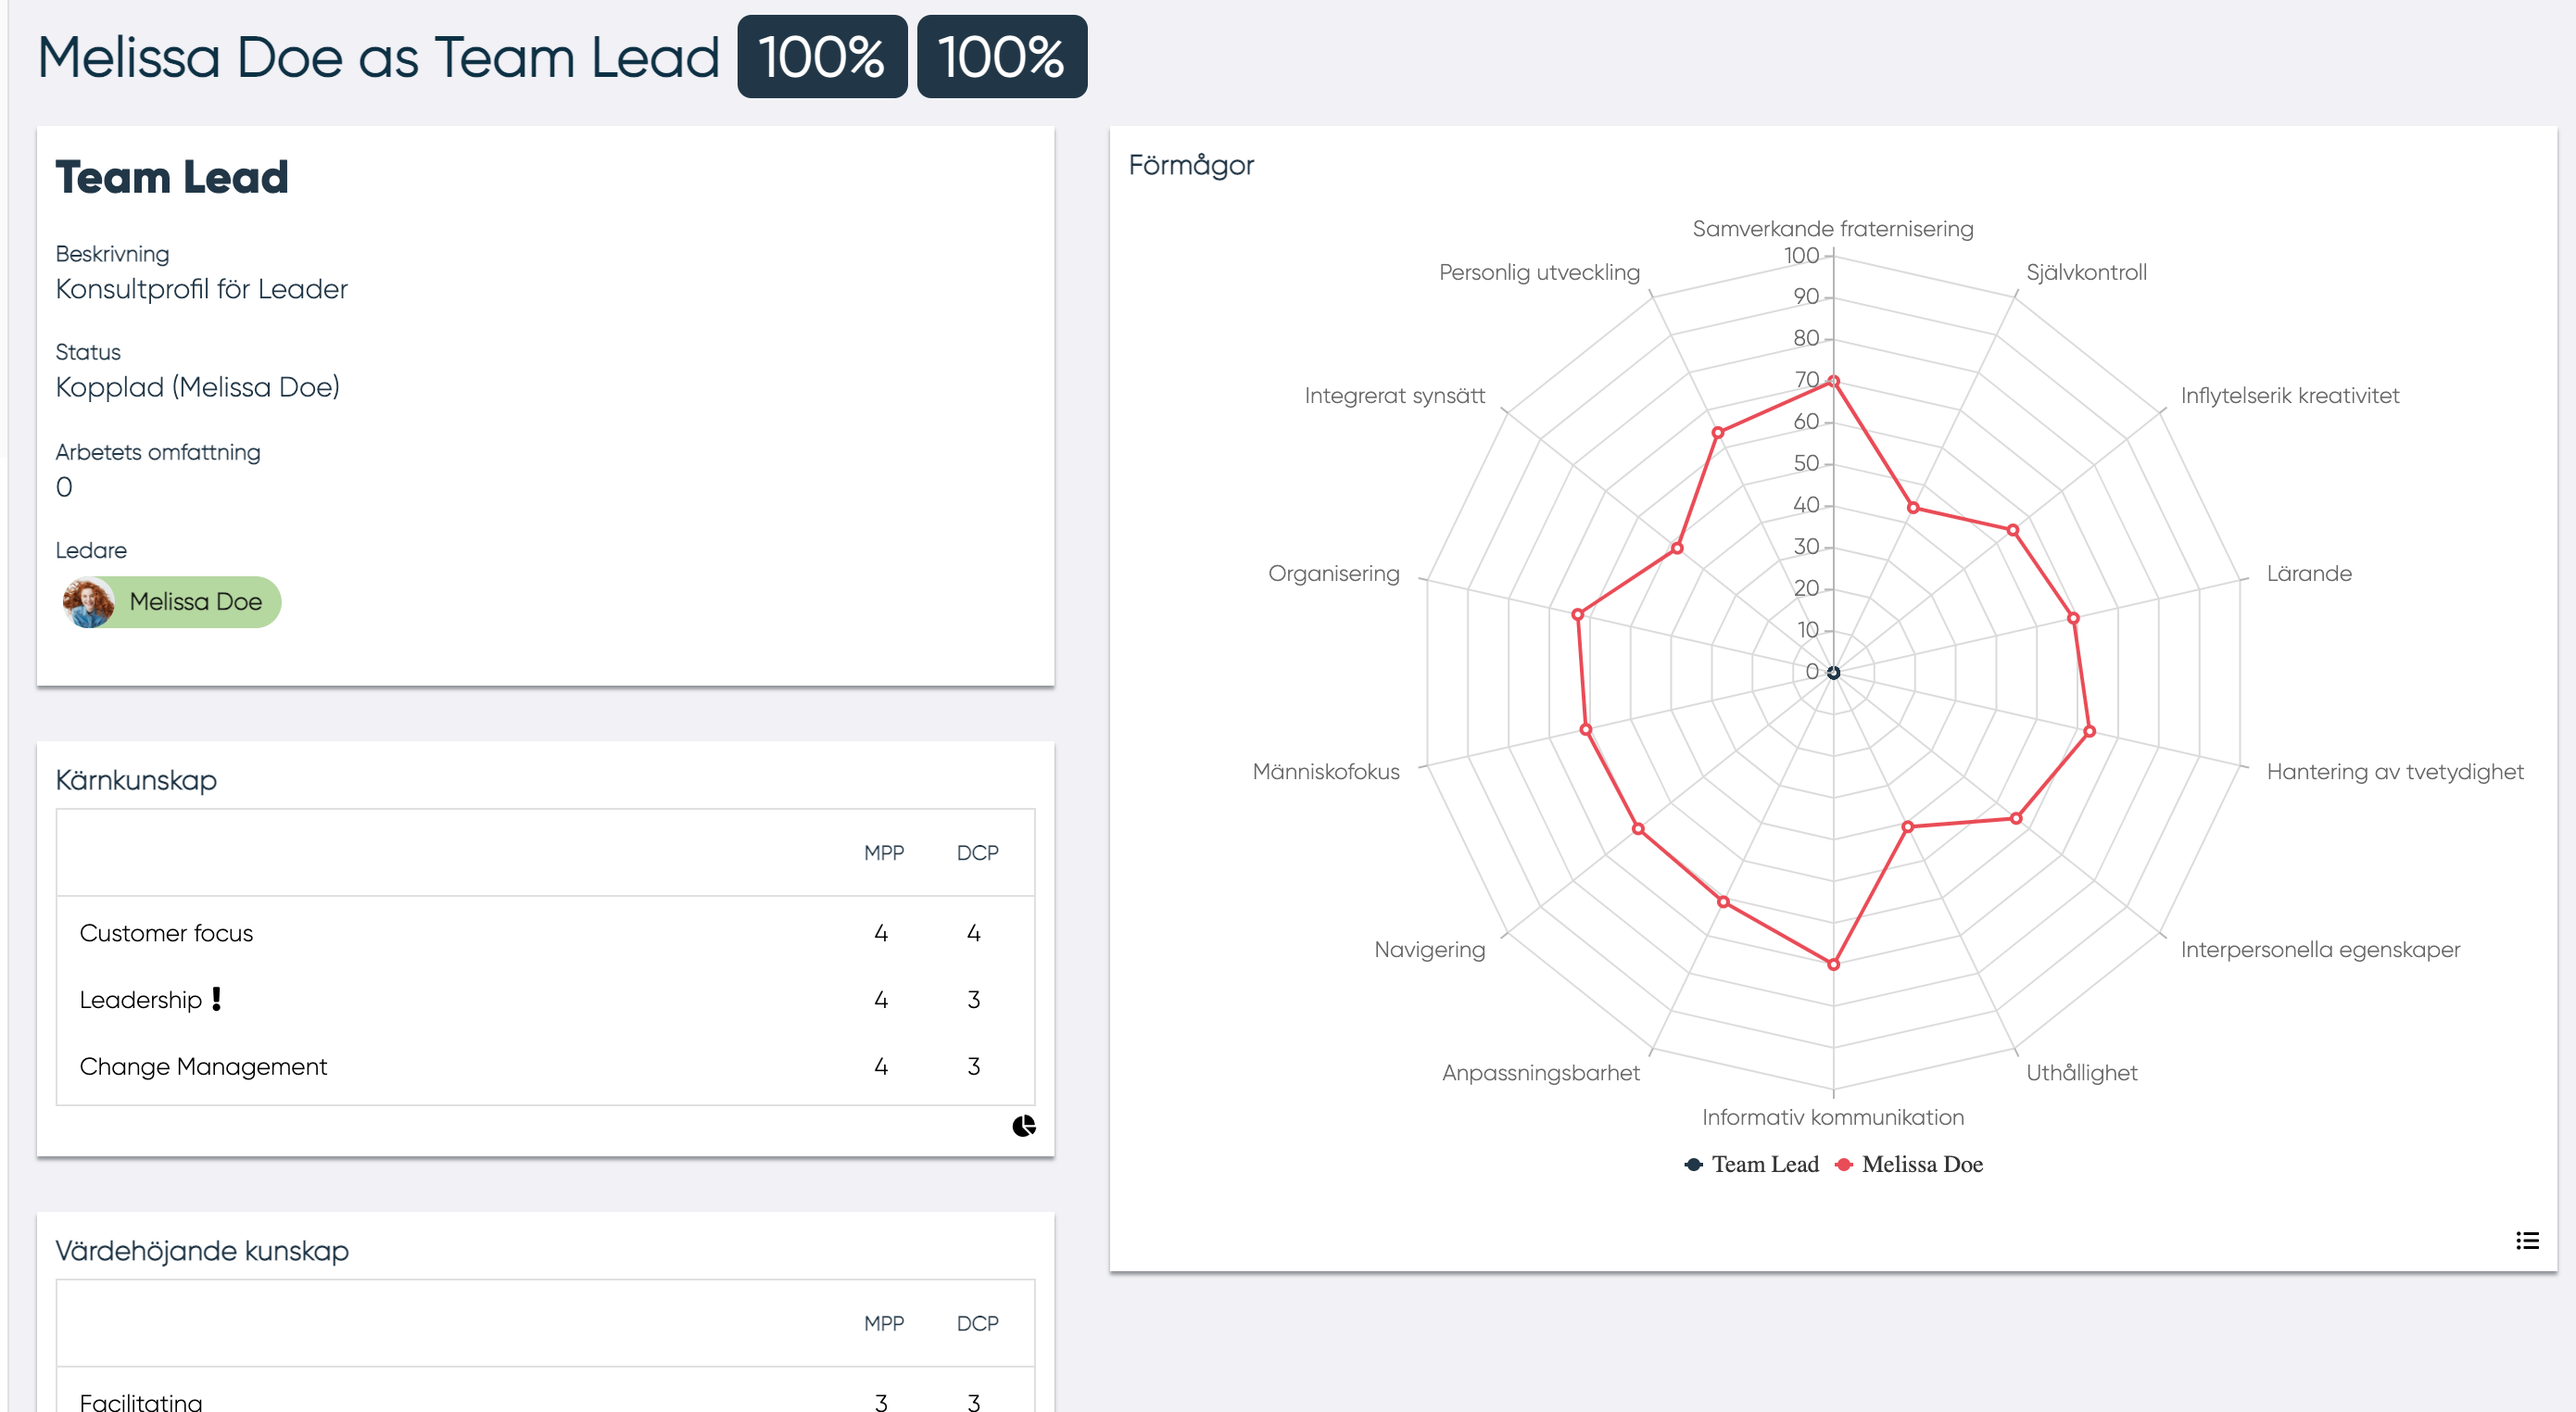
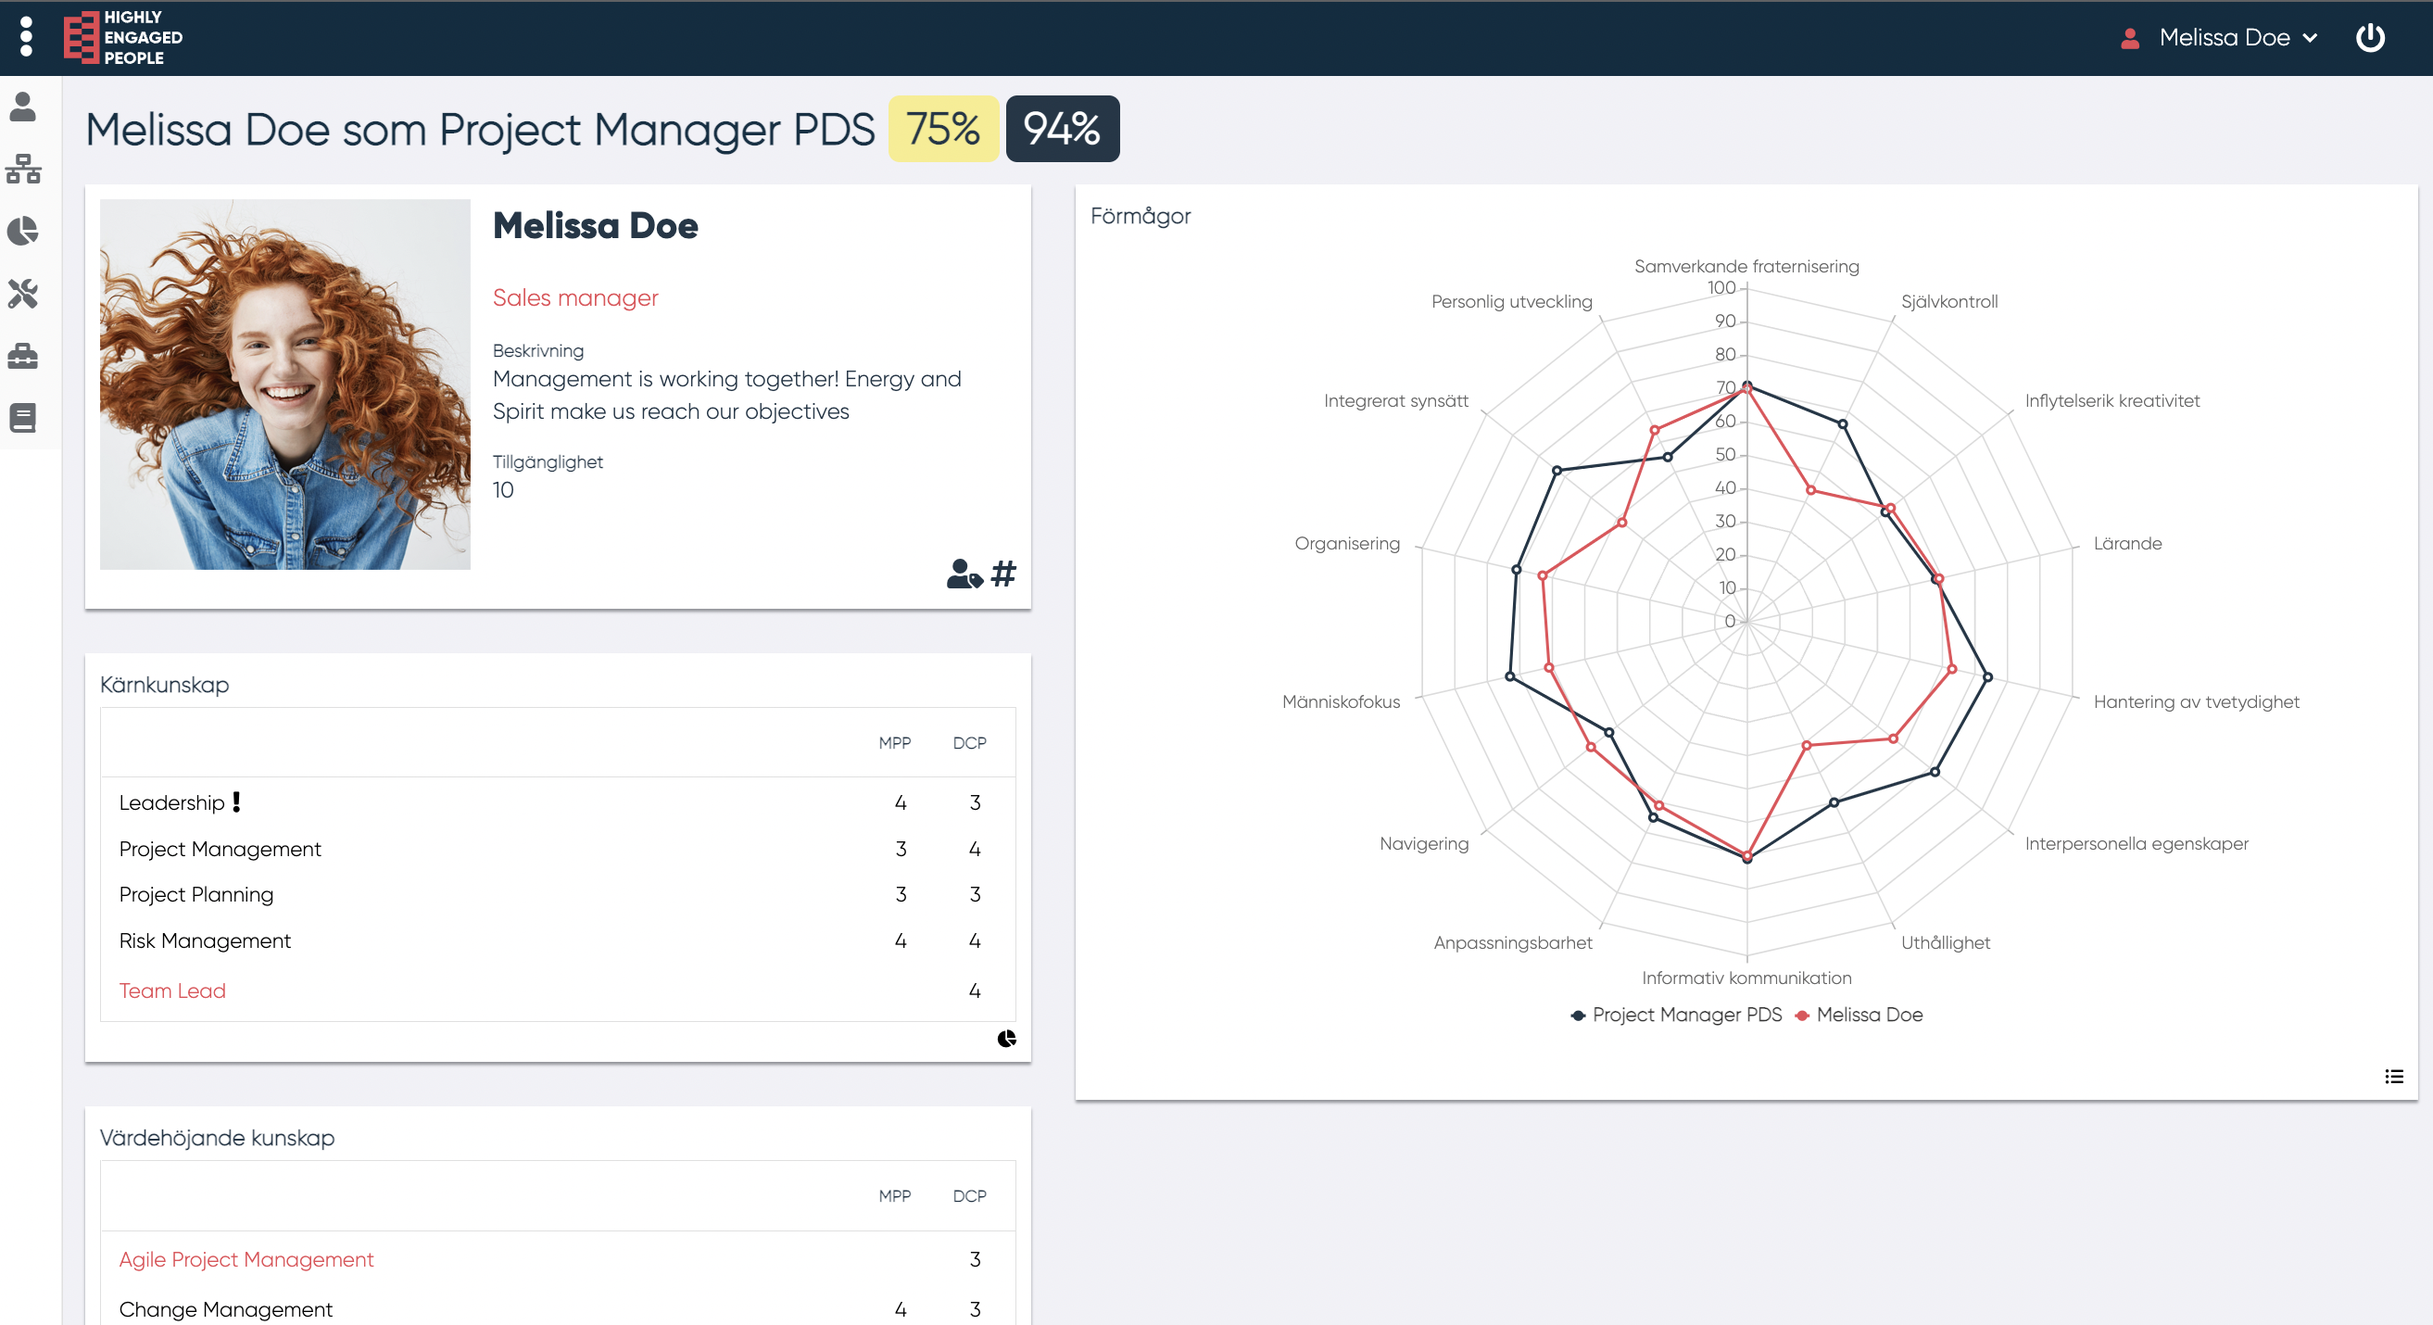
Final changes

diff --git a/docs/MP/Anvandarpanel.md b/docs/MP/Anvandarpanel.md
@@ -22,7 +22,6 @@ En MPs användarpanel innehåller följande:
 
 ![user interface](pictures/userpanel.png){width=650}
 
-<!---Bild över hela användarpanelen om de går--->
 -------
 
 ## Användardata
@@ -40,7 +39,7 @@ Data som finns i detta avsnitt är:
 
 ![user data](pictures/panel/user.png)
 
---------
+-------
 
 ## Kunskaper
 
@@ -87,7 +86,6 @@ Kalibrering gör det möjligt för användaren att verifiera noggrannheten av si
 !!! info
     Självskattningen ändras inte automatiskt efter kalibrering, utan värdet från självskattningen står kvar.
 
-<!---Bilder?--->
 Skillnaden mellan kalibrering och självskattningen visas genom en färgad sträck brevid självskattningen.
 
 Följande gäller:
@@ -96,6 +94,8 @@ Följande gäller:
 - Grön: Kalibrering överensstämmer med självskattning.
 - Gul: Mindre avvikelse mellan självskattning och kalibrering.
 - Röd: Stor avvikelse mellan självskattning och kalibrering.
+
+![Colors and knowledge](pictures/panel/kunskap.png)
 
 ## Kompetensutvecklingsaktiviteter
 
@@ -146,7 +146,7 @@ För att växla från diagram till lista och tvärtom kan MP klicka på symbolen
 
 ![alt text](pictures/panel/abilities_list.png)
 
-I listvyn kan mer information om förmågan visas genom att trycka på 'i' vid förmågans namn. <!---Bild!--->
+I listvyn kan mer information om förmågan visas genom att trycka på 'i' vid förmågans namn. 
 
 ## The Lemon
 
@@ -173,7 +173,7 @@ I denna panel visas alla DCP:er som en MP är ansluten till. För varje DCP kan 
 ## Mottagna DCPer
 
 <!---Annan bild--->
-![alt text](pictures/panel/mottagnaDCPer.png)
+![alt text](pictures/panel/mottagnaDCPer.png){width=300}
 
 I denna panel kan användaren se alla mottagna DCP:er, i listan finns alla DCP:er som mottagits av användaren och som inte har anslutits till någon annan MP än. MP kan klick på "Historisk data" för att se alla DCP:er som mottagits tidigare.
 För varje DCP som finns i listan visas följande information:

diff --git a/docs/MP/Anvandarinformation.md b/docs/MP/Anvandarinformation.md
@@ -3,16 +3,14 @@
 Användare kan komma åt sina egna uppgifter från menyn.
 
 <figure markdown>
-  ![User Dropdown menu](pictures/dropdown_menu.png){width=400}
+  ![User Dropdown menu](pictures/dropdown_menu.png){width=300}
 </figure>
-
-<!---Fixa ny bild--->
 
 ## Allmän användarinformation
 
 Här kan användare hantera sin användarinformation :
 
-- Roll <!--- Tog bort text om skrivskydd : enligt företagskonfigurationen ett av dessa alternativ är närvarande i form: Skrivskyddad, är uppdatering av ERP-gränssnitt som väljs i en rullgardinsmeny, alternativen som finns i rullgardinsmenyn hanteras av administratören i en textruta --->
+- Roll
 - Beskrivning
 - Tillgänglighet från 0 till 100 (tillgänglighet i procent)
 - Enhet
@@ -21,16 +19,13 @@ Här kan användare hantera sin användarinformation :
 - Kompetensguide
 - Byta språk
 
-<!--Person som kan väljas i en lista definierad av administratörsanvändare, skrivskyddat språk, här kan MP välja språk för innehållet i applikationen är detta en kompetensguide? -->
-
-<!---Lägg bild brevid text--->
 <figure markdown>
 ![General userinfo](pictures/general_userinfo.png){width=400}
 </figure>
 
 ## Byta bild
 
-Användaren kan ladda upp sin egen bild. Bilden kommer att visas i användarpanelen och kommer att vara synlig för alla andra användare i samma företag. 
+Användaren kan ladda upp sin egen bild. Bilden kommer att visas i användarpanelen och kommer att vara synlig för alla andra användare i samma företag.
 
 ![User picture](pictures/picture_user.png)
 
@@ -48,9 +43,6 @@ I tabellen visas följande:
 - Rullgardinsmeny.
     - Ta bort person från listan
   
-<!--Är det denna strukturen? Har svårt att förstå texten
-Ta reda på vad status betyder
-Vad ska vi göra med visa borttagna-->
 ![User abilities](pictures/abilities_userinfo.png)
 
 --------

diff --git a/docs/Ledare/Skanna_MPPer.md b/docs/Ledare/Skanna_MPPer.md
@@ -1,14 +1,16 @@
 # Skanna MPPer
 
-<!---Mindre bild--->
-
 Det finns två sätt att skanna efter MPPer för en specifik DCP:
 
-1. Genom att klicka på "Skanna MPPer" och sedan välja en önskad DCP visas formuläret på en ny flik.
-![alt text](pics/skanna.png)
+- Genom att klicka på "Skanna MPPer" och sedan välja en önskad DCP visas formuläret på en ny flik.
 
-2. Genom att i panelen DCP-status välja "Skanna MPPer" i rullgardinsmenyn för den valda DCPn.
-<!---bild--->
+<figure markdown>
+![alt text](pics/skanna.png){width=300}
+</figure>
+
+- Genom att i panelen DCP-status välja "Skanna MPPer" i rullgardinsmenyn för den valda DCPn.
+
+![alt text](pics/skanna2.png)
 
 När användaren har valt att skanna MPPer så omdiregeras den till denna sida.
 ![alt text](pics/fit.png)
@@ -39,9 +41,9 @@ Genom att klicka på knappen "Se fit-gap" öppnas fit-gap-vyn i en ny flik.
 
 --------------
 
-Genom att klicka på "Se fit-gap" öppnas en flik med den kompletta fit-gap analysen. 
+Genom att klicka på "Se fit-gap" öppnas en flik med den kompletta fit-gap analysen.
 
-<!---Bild--->
+![Fit Gap](pics/fit-gap.png)
 
 Här kan ledaren se:
 

diff --git a/docs/Anvandarsupport.md b/docs/Anvandarsupport.md
@@ -2,15 +2,9 @@
 
 HEP erbjuder olika typer av support för användaren. Användarsupport hittas i menyn under boksymbolen:
 
-<!---Byta bild--->
-
 <figure markdown>
 ![Pathway to reach user support](pics/path.png)
 </figure>
-
-<!---
-Skall det kanske vara en beskrivande text här? kanske beskriva vart man hittar menyn
---->
 
 ## Videoguide
 
@@ -22,10 +16,8 @@ Skall det kanske vara en beskrivande text här? kanske beskriva vart man hittar 
 
 Om användaren önskar ytterligare hjälp utöver videoguides kan ett ärende öppnas för att kontakta **HEP**. Ett ärende öppnas genom att fylla i formuläret under "Kontakta Oss".
 Ett meddelande och ett e-postmeddelande informerar användaren om att ärendet har skapats.
-<!--- Skall något mer skrivas här för att utöka förklaringen av kategori och vad man skall beskriva? --->
 
 ![Contact](pics/contact.png)
-
 
 ## Ordlista med ordförklaringar
 

diff --git a/docs/MP/Andra_losenord.md b/docs/MP/Andra_losenord.md
@@ -1,15 +1,16 @@
 # Ändra lösenord
 
-1. 
-För att ändra lösenord, navigera till och tryck på "Ändra lösenord"
+- För att ändra lösenord, navigera till och tryck på "Ändra lösenord"
+
 <figure markdown>
-![user dropdown menu](pictures/dropdown_menu.png)
+![user dropdown menu](pictures/dropdown_menu.png){width=250}
 </figure>
-2. 
-Fyll i nuvarande lösenord och sen det önskade lösenordet två gånger och tryck på "Spara".
+
+- Fyll i nuvarande lösenord och sen det önskade lösenordet två gånger och tryck på "Spara".
 Det nya lösenordet måste följa kriterier som definierats av din organisation, annars visas ett förklarande felmedelande.
+
 <figure markdown>
-![change password](pictures/change_pass.png){width=400}
+![change password](pictures/change_pass.png){width=300}
 </figure>
 
 ---------

diff --git a/docs/Ledare/Ledarpanel.md b/docs/Ledare/Ledarpanel.md
@@ -2,7 +2,7 @@
 
 När man loggar in som ledare för en nod eller DCP omdirigeras man till en ledarpanel. I ledarpanelen hittar man följande:
 
-- Mina noder (endast om användaren är en ledare i minst en nod)
+- Mina noder
 - DCP skickat
 - Överblick av DCPer
 - MPP sparad
@@ -75,6 +75,6 @@ För mer information om DCP-status: [DCP-status](DCP-status.md){ .md-button .md-
 ## MPP sparad
 <!---Svårtolkad text--->
 I det här avsnittet kan ledare/distributören se MPP som är sparade.
-Ledare kan spara en MPP i Scan MPPs genom att klicka på bokmärkesikonen nedan.
+Ledare kan spara en MPP i Scan MPPs genom att klicka på bokmärkesikonen.
 
 -------------------------------

diff --git a/docs/MP/Fit-gap.md b/docs/MP/Fit-gap.md
@@ -1,9 +1,9 @@
 # Fit Gap
 
-![alt text](pictures/fit-gap.png) 
+![alt text](pictures/fit-gap.png)
 <!--- Bild med skilda procent--->
 
-I MPP/DCP-fit gap kan MP se: Fit-gap av alla kärnkunskaper som krävs på DCP (70%) Fit-gap med tanke av endast de kunskaper som finns i MP-profilen bland de grundläggande kunskaper som krävs på DCP ( 88%) DCP-data:
+I MPP/DCP-fit gap kan MP se: Fit-gap av alla kärnkunskaper som krävs på DCP (75%) Fit-gap med tanke av endast de kunskaper som finns i MP-profilen bland de grundläggande kunskaper som krävs på DCP (94%) DCP-data:
 
 - Namn på DCP
 - Beskrivning av DCP

diff --git a/docs/MP/Frageformular.md b/docs/MP/Frageformular.md
@@ -4,7 +4,7 @@ För att skapa förmågeprofilen fyller MP i ett frågeformulär bestående av 5
 
 I frågeformuläret presenteras fem frågor per sida. För att gå vidare till nästa sida måste MP svara på alla de fem frågorna. När MP har gått till nästa sida är det inte möjligt att återgå till föregående. MP kan välja att fylla i formuläret över flera tillfällen, då visas första obesvarade frågan för tillfälle.
 
-![alt text](pictures/fragor/questions.png)
+![alt text](pictures/fragor/questions.jpg)
 
 Diagrammet uppdateras sedan för att visa andelen frågor som redan har besvarats.
 

diff --git a/docs/HR/Kompetensguide.md b/docs/HR/Kompetensguide.md
@@ -1,5 +1,7 @@
 # Administration av Kompetensguide
 
+![alt text](kompetensguide.png)
+
 Med den här funktionen kan användaren definiera vilken person som kan väljas av MP som kompetensguide.
 
 HR kan i rullgardinsmeny lägga till och ta bort användare som kan vara kompetensguider. Genom att välja en person i listan och klicka på "Lägg till" kan HR göra det möjligt för en användare att vara kompetensguide. De användare som kan vara kompetensguide visas i en tabell. En kompetensguiden kan tas bort genom att välja "Ta bort" i rullgardinsmenyn för den valda kompetensguiden.

diff --git a/docs/MP/Min_kompetensresa.md b/docs/MP/Min_kompetensresa.md
@@ -4,8 +4,6 @@
 ![alt text](pictures/resa/path.png){width=300}
 </figure>
 
-<!---Saknas bild--->
-
 I denna panel kan MP se historisk data i forma av flera diagram som visar förändring över tid för:
 
 - Kompetensförmågor
@@ -14,6 +12,6 @@ I denna panel kan MP se historisk data i forma av flera diagram som visar förä
 
 MP kan välja ett tidsintervall och/eller vilka kompetensförmågor/kunskaper som ska visas i diagrammen.
 
-<!--Är denna texten klar här?-->
+![Min kompetensresa](pictures/kompetensresa.png)
 
 ---------------------

diff --git a/docs/Mina_kompetensresenarer.md b/docs/Mina_kompetensresenarer.md
@@ -2,7 +2,9 @@
 
 Detta val finns endast tillgängligt om användaren är kompetensguide för någon och finns under väskan i menyn:
 
-<!---Bild--->
+![Hitta komptensresenärer](path_kompetensresenarer.png){width=300}
+
+-----------------------------------
 
 ![Mina kompetensresenärer](Mina_kompetensresenarer.png)
 
